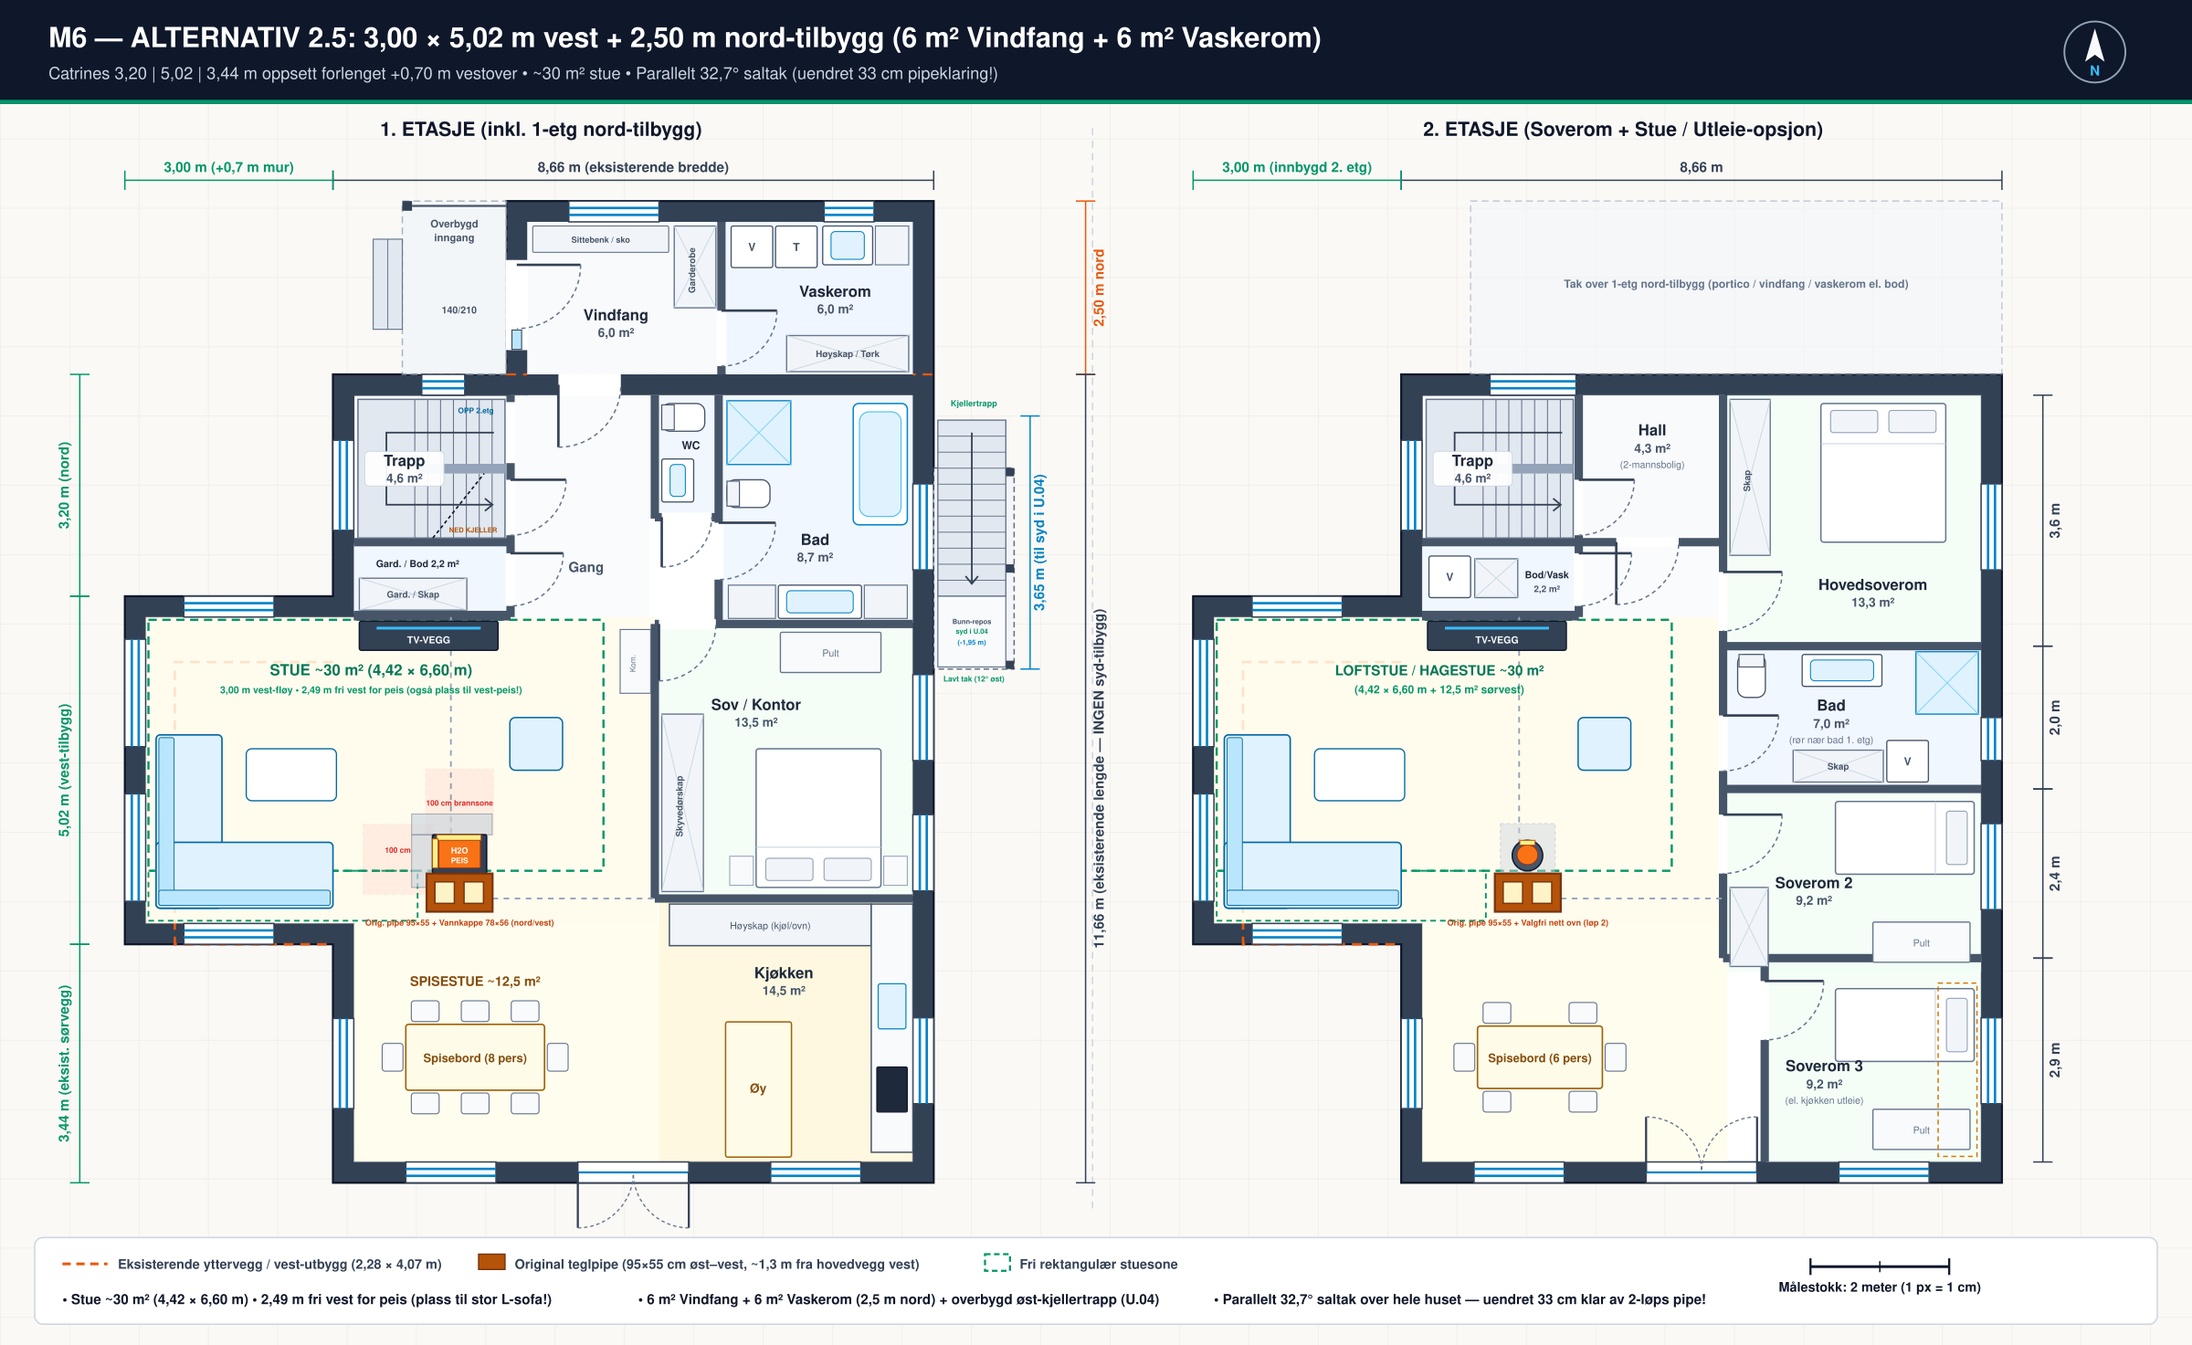
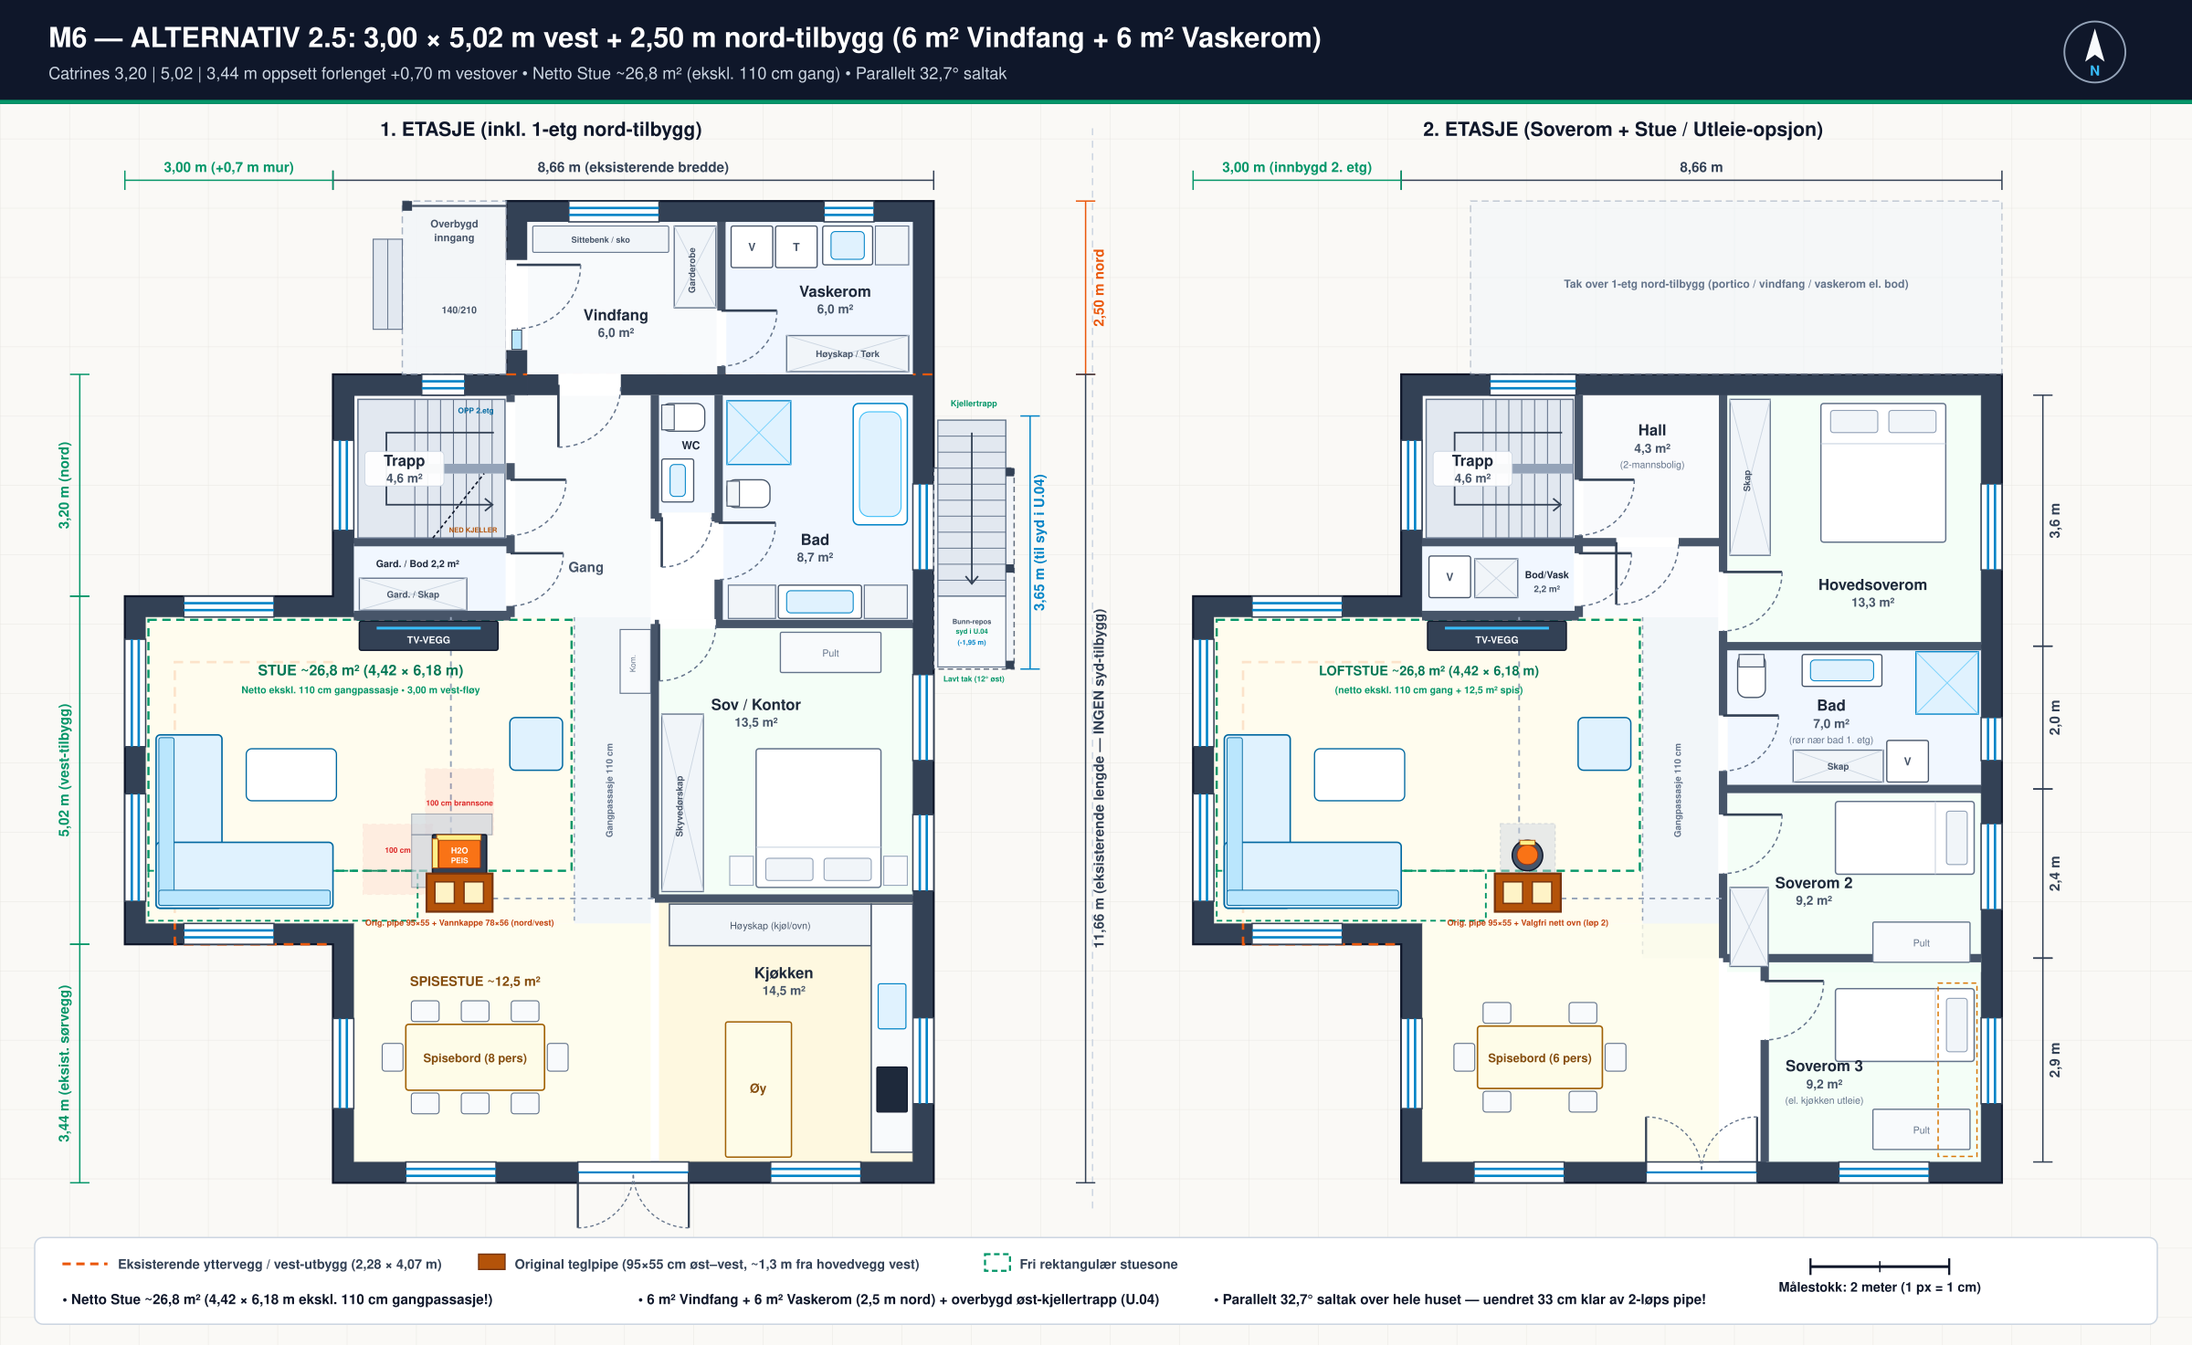
Exclude 110 cm Gang-to-Kjokken walkway from net Stue area across Alt 1, Alt 2 and Alt 2.5 (#50)

diff --git a/scripts/generate_vest_alternativer.py b/scripts/generate_vest_alternativer.py
@@ -698,12 +698,17 @@ def build_alt1_floor1(pb: PlanBuilder):
     west_d, wy1, wy2 = 320, 410, 930
     draw_outer_shell(pb, west_d, wy1, wy2, north_ext=True)
 
-    # Social & hall tints
-    pb.rect(-290, 440, 290 + 440, 460, fill="#fffbeb", opacity=0.8)
-    pb.rect(30, 820, 440, 316, fill="#fefce8", opacity=0.75)
+    # Social & hall tints — strictly EXCLUDE 110 cm Gangpassasje (x=348..458) from Stue area!
+    pb.rect(-290, 440, 290 + 348, 352, fill="#fffbeb", opacity=0.85)   # Stue (vest for 110 cm gangpassasje, 25,4 m² netto)
+    pb.rect(-290, 792, 320, 108, fill="#fffbeb", opacity=0.85)         # Vestfløy sør-del (y=792..900)
+    pb.rect(348, 440, 110, 352, fill="#f1f5f9", opacity=0.9)           # Gangpassasje 110 cm (ekskludert fra stue!)
+    pb.line(348, 440, 348, 792, stroke="#94a3b8", sw=2.0, dash="6,6")
+    pb.text(403, 625, "Gangpassasje 110 cm", size=13, weight="700", fill="#64748b", rotate=-90)
+    pb.rect(30, 792, 428, 344, fill="#fefce8", opacity=0.75)           # Spisestue
     pb.rect(-286, 444, 418, 452, fill="none", stroke="#0284c7", sw=3, dash="12,8")
+    pb.rect(132, 444, 212, 272, fill="none", stroke="#0284c7", sw=2.2, dash="8,6")
     pb.rect(30, 256, 220, 178, fill="#eff6ff", opacity=0.85)  # Vask
-    pb.rect(256, 30, 200, 410, fill="#f8fafc", opacity=0.85)  # Gang
+    pb.rect(256, 30, 202, 410, fill="#f8fafc", opacity=0.85)  # Gang
 
     # Shared east side + north extension (100% match to Magnus's sketch!)
     draw_shared_east_floor1(pb)
@@ -745,8 +750,8 @@ def build_alt1_floor1(pb: PlanBuilder):
     pb.room_label(106, 142, "Trapp", "4,8 m²")
     pb.room_label(110, 382, "Vask", "3,9 m²")
     pb.text(362, 295, "Gang", size=20, weight="700", fill="#475569")
-    pb.text(-165, 535, "STUE ~24 m²", size=23, weight="800", fill="#0369a1")
-    pb.text(-165, 561, "(fri utgang nord)", size=15, weight="700", fill="#0284c7")
+    pb.text(-140, 535, "STUE ~25,4 m²", size=22, weight="800", fill="#0369a1")
+    pb.text(-140, 561, "(netto ekskl. 110 cm gang)", size=14, weight="700", fill="#0284c7")
     pb.text(205, 882, "SPISESTUE ~11 m²", size=19, weight="700", fill="#854d0e")
 
     # Dimensions
@@ -764,12 +769,17 @@ def build_alt1_floor2(pb: PlanBuilder):
     west_d, wy1, wy2 = 320, 410, 930
     draw_outer_shell(pb, west_d, wy1, wy2, north_ext=False)
 
-    pb.rect(-290, 440, 290 + 440, 460, fill="#fffbeb", opacity=0.8)
-    pb.rect(30, 820, 440, 316, fill="#fefce8", opacity=0.75)
+    pb.rect(-290, 440, 290 + 348, 352, fill="#fffbeb", opacity=0.85)
+    pb.rect(-290, 792, 320, 108, fill="#fffbeb", opacity=0.85)
+    pb.rect(348, 440, 110, 402, fill="#f1f5f9", opacity=0.9)           # Gangpassasje 110 cm (ekskludert fra stue!)
+    pb.line(348, 440, 348, 842, stroke="#94a3b8", sw=2.0, dash="6,6")
+    pb.text(403, 640, "Gangpassasje 110 cm", size=13, weight="700", fill="#64748b", rotate=-90)
+    pb.rect(30, 792, 428, 344, fill="#fefce8", opacity=0.75)
     pb.rect(-286, 444, 418, 452, fill="none", stroke="#0284c7", sw=3, dash="12,8")
+    pb.rect(132, 444, 212, 272, fill="none", stroke="#0284c7", sw=2.2, dash="8,6")
     pb.rect(30, 256, 220, 178, fill="#eff6ff", opacity=0.8)
-    pb.rect(256, 30, 210, 226, fill="#f8fafc", opacity=0.9)
-    pb.rect(256, 256, 210, 184, fill="#f8fafc", opacity=0.7)
+    pb.rect(256, 30, 202, 226, fill="#f8fafc", opacity=0.9)
+    pb.rect(256, 256, 202, 184, fill="#f8fafc", opacity=0.7)
 
     draw_shared_east_floor2(pb)
 
@@ -809,8 +819,8 @@ def build_alt1_floor2(pb: PlanBuilder):
     pb.room_label(103, 142, "Trapp", "4,8 m²")
     pb.room_label(112, 352, "Bod / Vask", "3,6 m²")
     pb.room_label(362, 102, "Hall", "4,5 m²", "(2-mannsbolig)")
-    pb.text(-165, 535, "LOFTSTUE / HAGESTUE", size=20, weight="800", fill="#0369a1")
-    pb.text(-165, 561, "~24 m² + 11 m² spis (innbygd)", size=15, weight="700", fill="#0284c7")
+    pb.text(-140, 535, "LOFTSTUE ~25,4 m²", size=20, weight="800", fill="#0369a1")
+    pb.text(-140, 561, "(netto ekskl. 110 cm gang)", size=14, weight="700", fill="#0284c7")
 
     pb.dim_h(0, 866, -265, "8,66 m", bold=True)
     pb.dim_h(-320, 0, -265, "3,20 m (innbygd 2. etg)", color="#0284c7", bold=True)
@@ -828,12 +838,17 @@ def build_alt2_floor1(pb: PlanBuilder, west_d: int = 230):
     dx_w = west_d - 230  # 0 for Alt 2, 70 for Alt 2.5
     draw_outer_shell(pb, west_d, wy1, wy2, north_ext=True, north_depth=250)
 
-    pb.rect(-west_d + 30, 350, 668 + dx_w, 442, fill="#fffbeb", opacity=0.85)
-    pb.rect(30, 792, 440, 344, fill="#fefce8", opacity=0.75)
-    pb.rect(-west_d + 34, 354, 586 + dx_w, 362, fill="none", stroke="#059669", sw=3.2, dash="12,8")
-    pb.rect(-west_d + 34, 716, 318 + dx_w, 72, fill="none", stroke="#059669", sw=2.5, dash="8,6")
+    # Social & hall tints — strictly EXCLUDE 110 cm Gangpassasje (x=348..458) from Stue area!
+    pb.rect(-west_d + 30, 350, (west_d - 30) + 348, 442, fill="#fffbeb", opacity=0.85)  # Netto Stue vest for 110 cm gangpassasje!
+    pb.rect(348, 350, 110, 442, fill="#f1f5f9", opacity=0.92)                           # Gangpassasje 110 cm (ekskludert!)
+    pb.line(348, 350, 348, 792, stroke="#94a3b8", sw=2.0, dash="6,6")
+    pb.text(403, 600, "Gangpassasje 110 cm", size=13, weight="700", fill="#64748b", rotate=-90)
+    pb.rect(30, 792, 428, 344, fill="#fefce8", opacity=0.75)
+    # Dashed net living zone stops cleanly at x=344 (STRICTLY excluding 110 cm Gangpassasje x=348..458!)
+    pb.rect(-west_d + 34, 354, (west_d - 34) + 344, 362, fill="none", stroke="#059669", sw=3.2, dash="12,8")
+    pb.rect(-west_d + 34, 716, (west_d - 34) + 122, 72, fill="none", stroke="#059669", sw=2.5, dash="8,6")
     pb.rect(30, 244, 220, 100, fill="#eff6ff", opacity=0.85)  # Garderobe / Bod (2,2 m²)
-    pb.rect(256, 30, 200, 320, fill="#f8fafc", opacity=0.85)  # Gang
+    pb.rect(256, 30, 202, 320, fill="#f8fafc", opacity=0.85)  # Gang
 
     # Shared east side + 2,50 m north extension WITH roomy 6,0 m² Vindfang, 6,0 m² Vaskerom & east-wall basement stair!
     draw_shared_east_floor1(pb, north_vaskerom=True, north_depth=250)
@@ -881,11 +896,11 @@ def build_alt2_floor1(pb: PlanBuilder, west_d: int = 230):
     pb.text(122, 278, "Gard. / Bod 2,2 m²", size=14, weight="700", fill="#1e293b")
     pb.text(365, 285, "Gang", size=20, weight="700", fill="#475569")
     if is_25:
-        pb.text(55, 434, "STUE ~30 m² (4,42 × 6,60 m)", size=22, weight="800", fill="#047857")
-        pb.text(55, 460, "3,00 m vest-fløy • 2,49 m fri vest for peis (også plass til vest-peis!)", size=14, weight="700", fill="#059669")
+        pb.text(40, 434, "STUE ~26,8 m² (4,42 × 6,18 m)", size=21, weight="800", fill="#047857")
+        pb.text(40, 460, "Netto ekskl. 110 cm gangpassasje • 3,00 m vest-fløy", size=14, weight="700", fill="#059669")
     else:
-        pb.text(80, 434, "STUE ~26 m² (4,42 × 5,90 m)", size=22, weight="800", fill="#047857")
-        pb.text(80, 460, "H2O-peis mot sofakrok • Utnytter eksist. sørvegg vest", size=15, weight="700", fill="#059669")
+        pb.text(65, 434, "STUE ~23,7 m² (4,42 × 5,48 m)", size=21, weight="800", fill="#047857")
+        pb.text(65, 460, "Netto ekskl. 110 cm gangpassasje • Eksist. sørvegg vest", size=14, weight="700", fill="#059669")
     pb.text(205, 882, "SPISESTUE ~12,5 m²", size=19, weight="700", fill="#854d0e")
 
     # Dimensions
@@ -905,13 +920,16 @@ def build_alt2_floor2(pb: PlanBuilder, west_d: int = 230):
     dx_w = west_d - 230
     draw_outer_shell(pb, west_d, wy1, wy2, north_ext=False, north_depth=250)
 
-    pb.rect(-west_d + 30, 350, 668 + dx_w, 442, fill="#fffbeb", opacity=0.85)
-    pb.rect(30, 792, 440, 344, fill="#fefce8", opacity=0.75)
-    pb.rect(-west_d + 34, 354, 586 + dx_w, 362, fill="none", stroke="#059669", sw=3.2, dash="12,8")
-    pb.rect(-west_d + 34, 716, 318 + dx_w, 72, fill="none", stroke="#059669", sw=2.5, dash="8,6")
+    pb.rect(-west_d + 30, 350, (west_d - 30) + 348, 442, fill="#fffbeb", opacity=0.85)
+    pb.rect(348, 350, 110, 492, fill="#f1f5f9", opacity=0.92)
+    pb.line(348, 350, 348, 842, stroke="#94a3b8", sw=2.0, dash="6,6")
+    pb.text(403, 600, "Gangpassasje 110 cm", size=13, weight="700", fill="#64748b", rotate=-90)
+    pb.rect(30, 792, 428, 344, fill="#fefce8", opacity=0.75)
+    pb.rect(-west_d + 34, 354, (west_d - 34) + 344, 362, fill="none", stroke="#059669", sw=3.2, dash="12,8")
+    pb.rect(-west_d + 34, 716, (west_d - 34) + 122, 72, fill="none", stroke="#059669", sw=2.5, dash="8,6")
     pb.rect(30, 244, 220, 100, fill="#eff6ff", opacity=0.85)
-    pb.rect(256, 30, 210, 212, fill="#f8fafc", opacity=0.9)
-    pb.rect(256, 242, 210, 108, fill="#f8fafc", opacity=0.7)
+    pb.rect(256, 30, 202, 212, fill="#f8fafc", opacity=0.9)
+    pb.rect(256, 242, 202, 108, fill="#f8fafc", opacity=0.7)
 
     draw_shared_east_floor2(pb)
 
@@ -958,11 +976,11 @@ def build_alt2_floor2(pb: PlanBuilder, west_d: int = 230):
     pb.text(210, 314, "2,2 m²", size=13, weight="600", fill="#475569")
     pb.room_label(362, 98, "Hall", "4,3 m²", "(2-mannsbolig)")
     if is_25:
-        pb.text(55, 434, "LOFTSTUE / HAGESTUE ~30 m²", size=20, weight="800", fill="#047857")
-        pb.text(55, 460, "(4,42 × 6,60 m + 12,5 m² sørvest)", size=16, weight="700", fill="#059669")
+        pb.text(40, 434, "LOFTSTUE ~26,8 m² (4,42 × 6,18 m)", size=19, weight="800", fill="#047857")
+        pb.text(40, 460, "(netto ekskl. 110 cm gang + 12,5 m² spis)", size=14, weight="700", fill="#059669")
     else:
-        pb.text(80, 434, "LOFTSTUE / HAGESTUE ~26 m²", size=20, weight="800", fill="#047857")
-        pb.text(80, 460, "(4,42 × 5,90 m + 12,5 m² sørvest)", size=16, weight="700", fill="#059669")
+        pb.text(65, 434, "LOFTSTUE ~23,7 m² (4,42 × 5,48 m)", size=19, weight="800", fill="#047857")
+        pb.text(65, 460, "(netto ekskl. 110 cm gang + 12,5 m² spis)", size=14, weight="700", fill="#059669")
 
     pb.dim_h(0, 866, -280, "8,66 m", bold=True)
     pb.dim_h(-west_d, 0, -280, "3,00 m (innbygd 2. etg)" if is_25 else "2,30 m (innbygd 2. etg)", color="#059669", bold=True)
@@ -1040,7 +1058,7 @@ if __name__ == "__main__":
         build_alt1_floor1,
         build_alt1_floor2,
         [
-            "Stue ~24 m² (4,25 × 4,60 m vest for pipe)",
+            "Netto Stue ~25,4 m² (ekskl. 110 cm gangpassasje; 19,2 m² vest for pipe)",
             "Nord-tilbygg (Vindfang 5,4 m², Kjellernedg., Utebod) + 8,7 m² Bad",
             "Krever ~0,9 m nytt fundament vest + 20° saltak (28 cm klar av 2-løps pipe)",
         ],
@@ -1048,25 +1066,25 @@ if __name__ == "__main__":
     make_sheet(
         "plan_alt2_symmetrisk_vest.svg",
         "M6 — ALTERNATIV 2: 2,30 × 5,02 m vest + 2,50 m nord-tilbygg (6 m² Vindfang + 6 m² Vaskerom)",
-        "Catrines oppsett (3,20 | 5,02 | 3,44 m) • Romslig 6,0 m² Vindfang & 6,0 m² Vaskerom • Overbygd kjellertrapp øst (1,50 m fra nordfasade)",
+        "Catrines oppsett (3,20 | 5,02 | 3,44 m) • Netto Stue ~23,7 m² (ekskl. 110 cm gang) • 6 m² Vindfang & 6 m² Vaskerom",
         "#059669",
         build_alt2_floor1,
         build_alt2_floor2,
         [
-            "Stue ~26 m² + H2O-peis • 6 m² Vindfang + 6 m² Vaskerom (2,5 m nord)",
-            "Kjellertrapp øst: 3 åpne trinn + lavt horisontalt tak under badvindu",
+            "Netto Stue ~23,7 m² (4,42 × 5,48 m ekskl. 110 cm gangpassasje)",
+            "6 m² Vindfang + 6 m² Vaskerom (2,5 m nord) + overbygd øst-kjellertrapp (U.04)",
             "Parallelt 32,7° saltak over hele huset — 33 cm klar av 2-løps pipe!",
         ],
     )
     make_sheet(
         "plan_alt25_3m_vest.svg",
         "M6 — ALTERNATIV 2.5: 3,00 × 5,02 m vest + 2,50 m nord-tilbygg (6 m² Vindfang + 6 m² Vaskerom)",
-        "Catrines 3,20 | 5,02 | 3,44 m oppsett forlenget +0,70 m vestover • ~30 m² stue • Parallelt 32,7° saltak (uendret 33 cm pipeklaring!)",
+        "Catrines 3,20 | 5,02 | 3,44 m oppsett forlenget +0,70 m vestover • Netto Stue ~26,8 m² (ekskl. 110 cm gang) • Parallelt 32,7° saltak",
         "#059669",
         lambda pb: build_alt2_floor1(pb, west_d=300),
         lambda pb: build_alt2_floor2(pb, west_d=300),
         [
-            "Stue ~30 m² (4,42 × 6,60 m) • 2,49 m fri vest for peis (plass til stor L-sofa!)",
+            "Netto Stue ~26,8 m² (4,42 × 6,18 m ekskl. 110 cm gangpassasje!)",
             "6 m² Vindfang + 6 m² Vaskerom (2,5 m nord) + overbygd øst-kjellertrapp (U.04)",
             "Parallelt 32,7° saltak over hele huset — uendret 33 cm klar av 2-løps pipe!",
         ],

diff --git a/docs/ARKITEKTBRIEF_M6_REV2.md b/docs/ARKITEKTBRIEF_M6_REV2.md
@@ -60,9 +60,9 @@ Eksisterende vest-utbygg (`2,28 × 4,07 m`) **rives helt** for enkel tilgang til
 ### Peistest (kompakt H2O-innsats `56 × 78 cm` + `30 cm` ildfast plate + `100 cm` brannsone)
 | Alternativ vest-tilbygg | Fri sone mot sofa / opphold | Fasadesymmetri vest | Tak & original 2-løps pipe (#38) |
 | :--- | :--- | :--- | :--- |
-| **Alt 1: `3,20–3,30 × 5,20 m`** *(dypere tverrfløy)* | **`1,09 m` klaring** fra `100 cm` brannsone til full `2,4 × 2,4 m` L-sofa (peis vest på pipe, verandadør flyttet til nordvegg av vest-fløy) | `4,10 \| 5,20 \| 2,36 m` | **`20°` slakt saltak** (`28 cm` fri klaring nord for pipe) eller **`10°` pulttak** (`35 cm` vest, 0 gradrenner). *NB: `32,7°` saltak krasjer i pipa!* |
-| **Alt 2 (Catrine): `2,30 × 5,02 m`** *(på eksist. kjellermur)* | **`1,03 m` klaring** til L-sofa med kompakt H2O-peis på **nordside av pipe** (innsyn nord+vest rett mot sofakrok i `~26 m²` stue) | **`3,20 \| 5,02 \| 3,44 m`** *(nær 100 % symmetrisk, beholder eksist. sørvegg + mur!)* | **Parallelt `32,7°` saltak** (samme takvinkel som hovedtak!) — **`33 cm` fri klaring** nord for pipa uten takkonflikt! |
-| **Alt 2B: `2,80 × 4,60 m`** *(symmetrisk kompromiss)* | **`2,20 m`** fri sone vest for brannsone | **100 % symmetrisk (`3,53 \| 4,60 \| 3,53 m`)** | **`24°` saltak** — 0 pipekonflikt på tak |
+| **Alt 1: `3,20–3,30 × 5,20 m`** *(dypere tverrfløy)* | **`~25,4 m²` netto stue** *(ekskl. `110 cm` gangpassasje; `19,2 m²` vest for pipe)* — `1,09 m` klaring til full `2,4 × 2,4 m` L-sofa | `4,10 \| 5,20 \| 2,36 m` | **`20°` slakt saltak** (`28 cm` fri klaring nord for pipe) eller **`10°` pulttak** (`35 cm` vest, 0 gradrenner). *NB: `32,7°` saltak krasjer i pipa!* |
+| **Alt 2 (Catrine): `2,30 × 5,02 m`** *(på eksist. kjellermur)* | **`~23,7 m²` netto stue** (`4,42 × 5,48 m`, ekskl. `110 cm` gangpassasje) — `1,03 m` klaring til L-sofa med H2O-peis nord på pipa | **`3,20 \| 5,02 \| 3,44 m`** *(beholder eksist. sørvegg + mur!)* | **Parallelt `32,7°` saltak** (samme takvinkel som hovedtak!) — **`33 cm` fri klaring** nord for pipa uten takkonflikt! |
+| **Alt 2.5: `3,00 × 5,02 m`** *(+0,70 m dypere Alt 2)* | **`~26,8 m²` netto stue** (`4,42 × 6,18 m`, ekskl. `110 cm` gangpassasje) — størst netto stue, plass til stor `2,55×2,50 m` L-sofa! | **`3,20 \| 5,02 \| 3,44 m`** *(beholder eksist. sørvegg, +0,7 m mur vest)* | **Parallelt `32,7°` saltak** — **uendret `33 cm` fri klaring** nord for pipa! |
 
 ---
 
@@ -83,7 +83,7 @@ Eksisterende vest-utbygg (`2,28 × 4,07 m`) **rives helt** for enkel tilgang til
 * **Plantegninger 1. & 2. etg (1 px = 1 cm):**
   * [Alternativ 1 (`3,20 × 5,20 m` vest + `2,10 m` nord-tilbygg)](../assets/images/drawings/plan_alt1_dypere_vest.png)
   * [Alternativ 2 — Catrine/Magnus (`2,30 × 5,02 m` på eksist. mur + `2,50 m` nord-tilbygg m/ `6 m² Vaskerom` & `U.04` øst-kjellertrapp)](../assets/images/drawings/plan_alt2_symmetrisk_vest.png)
-  * [**Alternativ 2.5 (`3,00 × 5,02 m` vest, `~30 m²` stue + `2,50 m` nord-tilbygg, parallelt `32,7°` saltak m/ `33 cm` pipeklaring)**](../assets/images/drawings/plan_alt25_3m_vest.png)
+  * [**Alternativ 2.5 (`3,00 × 5,02 m` vest, `~26,8 m²` netto stue + `2,50 m` nord-tilbygg, parallelt `32,7°` saltak m/ `33 cm` pipeklaring)**](../assets/images/drawings/plan_alt25_3m_vest.png)
 * **Peistest (rett vest på original pipe):**
   * [Sammenligning `2,30 m` vs `2,80 m` vs `3,20 m`](../assets/images/drawings/test_peis_vest_sammenligning.png)
 * **Tekniske fasader & 3D-takplan:**
